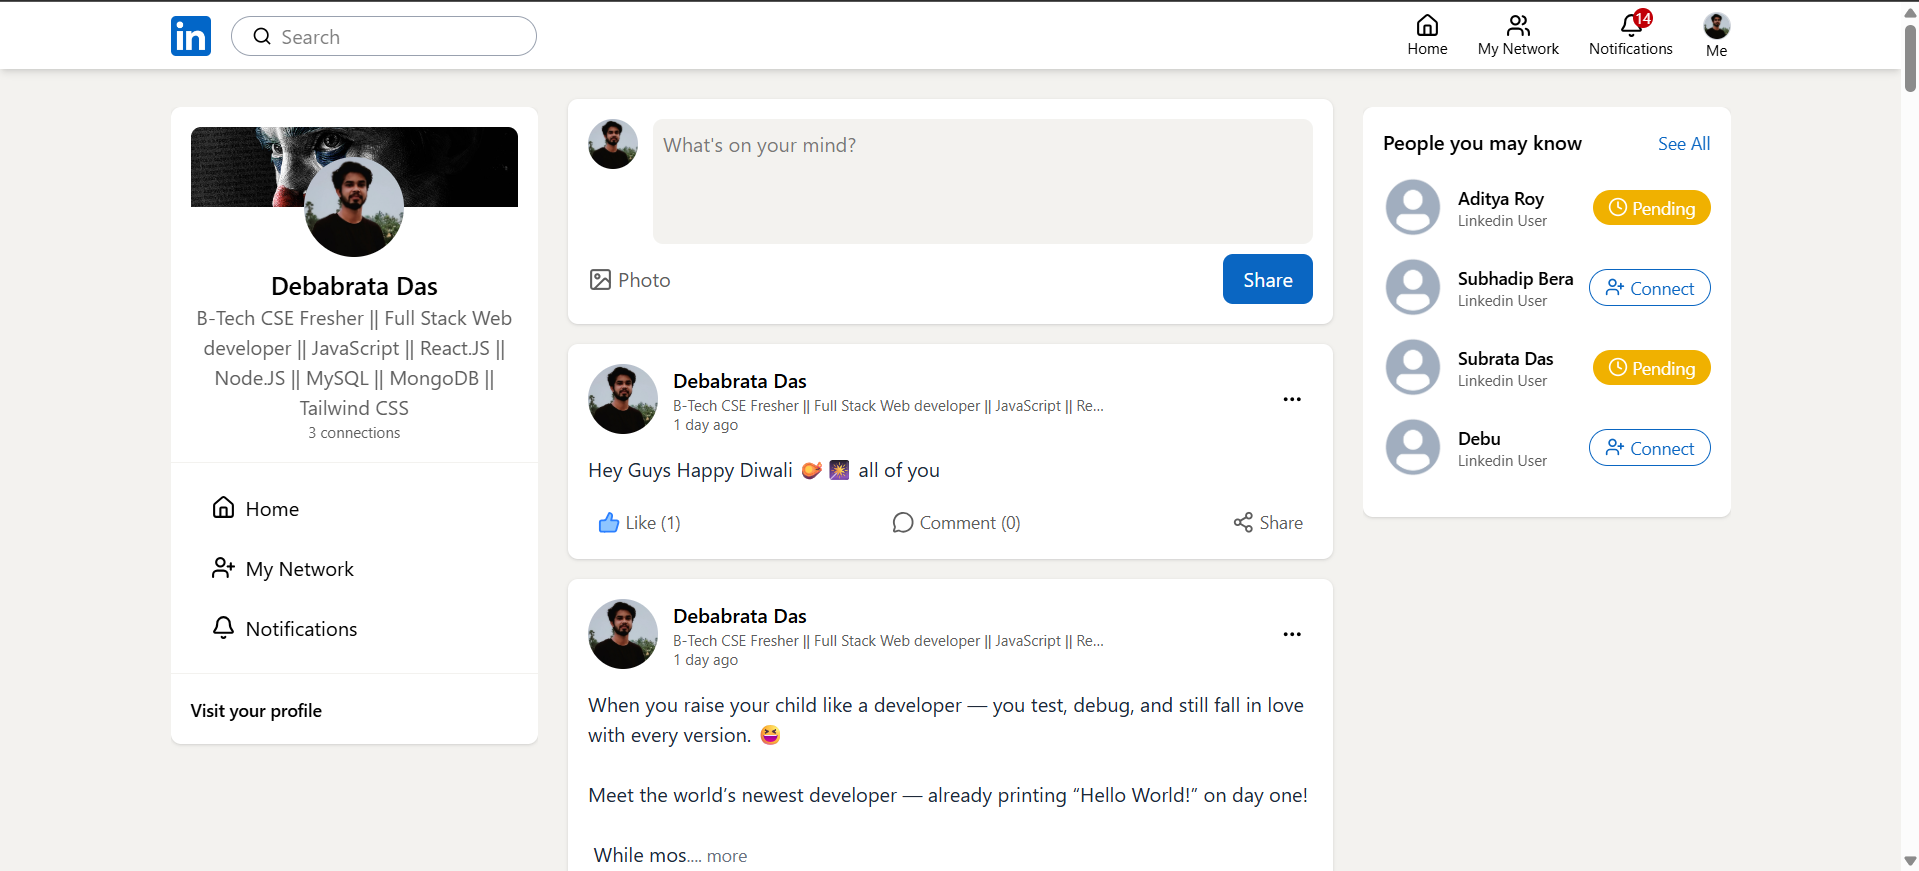
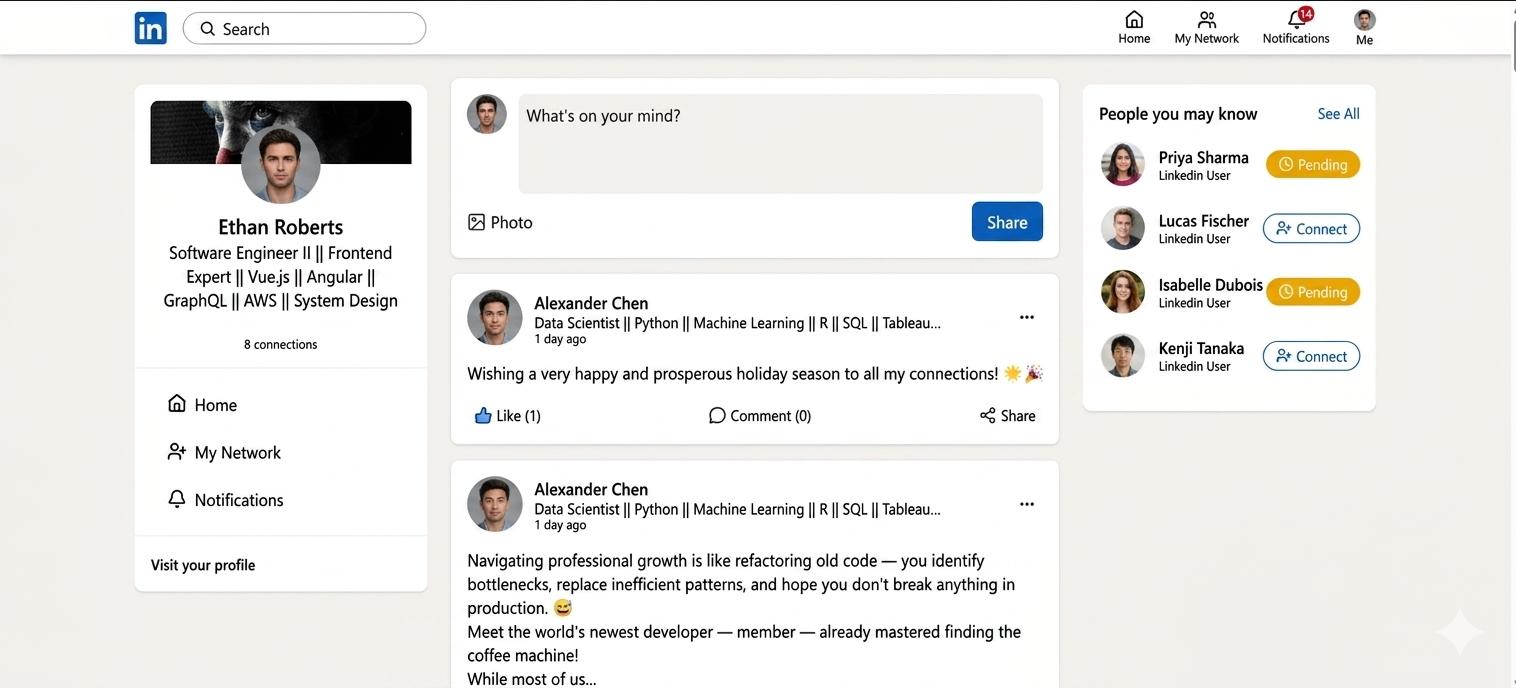
docs: add project overview

diff --git a/README.md b/README.md
@@ -32,37 +32,9 @@ _None provided by default._ If you deploy this project to a service (e.g., Rende
 
 --- -->
 
-## 📸 Screenshots
-
-### Login Page
-
-![Login Page](./frontend/public/login-page.png)
-
 ### Home Page
 
-![Home page](./frontend/public/home.png)
-
-### Profile Page
-
-![Profile page](./frontend/public/my-profile.png)
-
-### My Network Page
-
-![Network Page](./frontend/public/my-network.png)
-
-### Notification Page
-
-![Notification page](./frontend/public/notifications.png)
-
-### Suggestions Page
-
-![Suggestions page](./frontend/public/suggetions.png)
-
-### Suggestion Profile Page
-
-![Suggestion Profile page](./frontend/public/other-profile.png)
-
----
+## ![Home page](./frontend/public/home.png)
 
 ## Features
 
